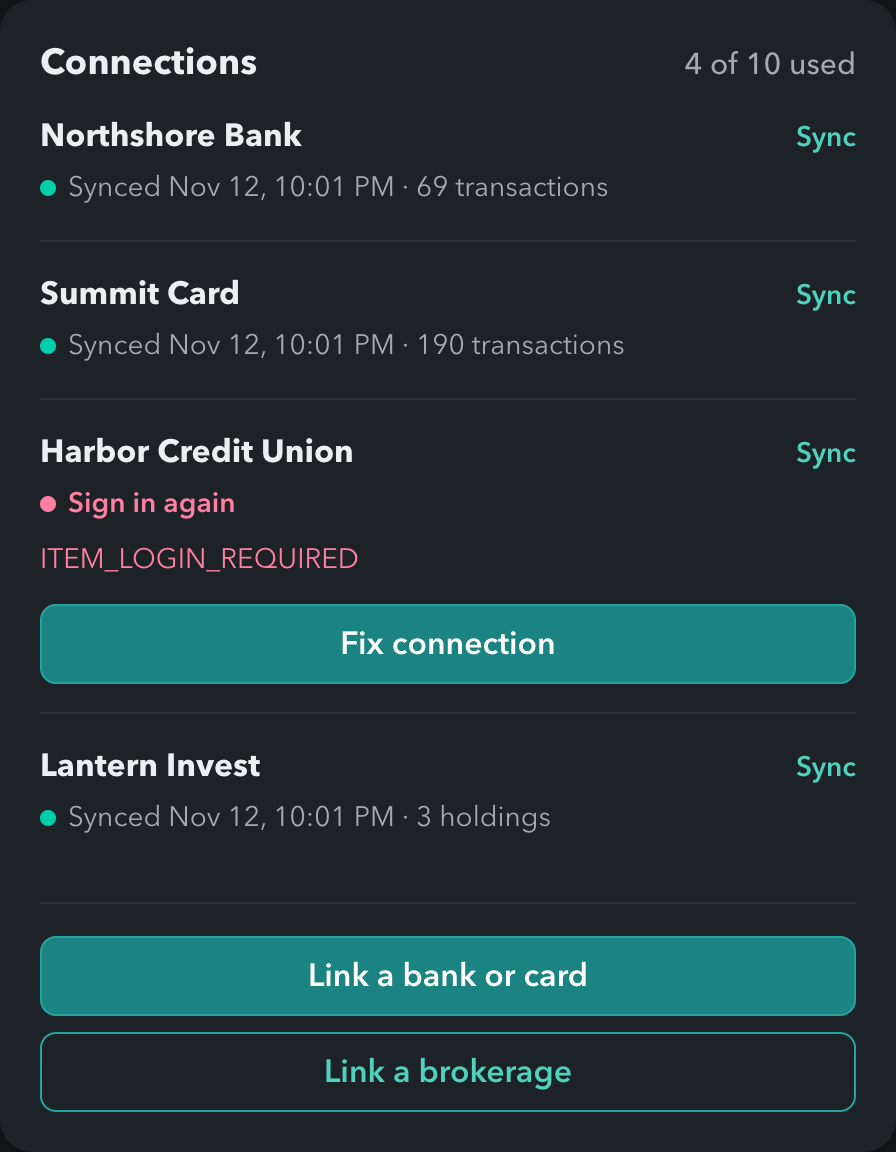
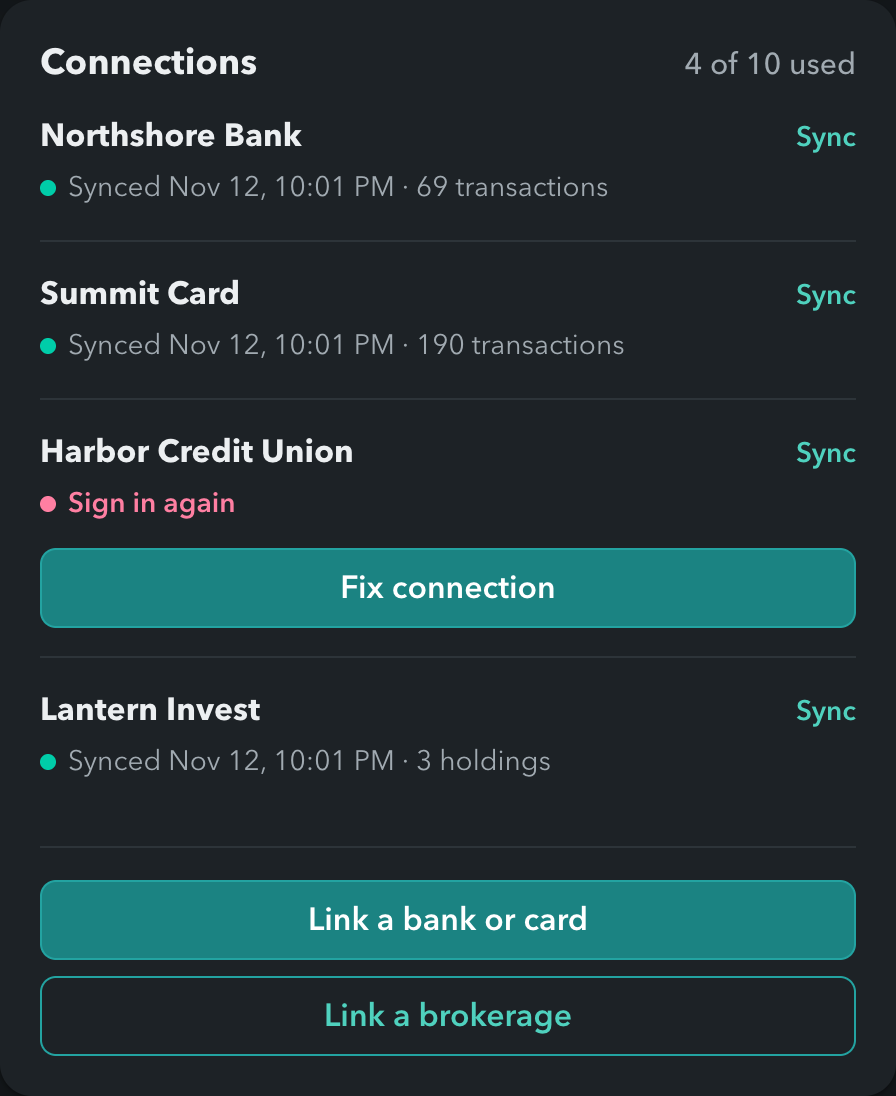
Site: council round 6, one hero button, the picker in the Activity shot, and a fuller What you need
Ruling (Fable, round 6): the hero keeps one button, Read the install guide;
GitHub stays in the nav and footer. The Activity panel shows the category picker
open with the every-transaction box ticked, so its heading is shown. Bills shows
four bills so the columns end level. The Connections shot drops the raw Plaid
error code. What you need sits two by two with the commands and button below.
The hero now sits inside main, so the skip link lands on the h1. Also: dark skip
link contrast, the scroll fade clears at the end of a command, phone one-line
code centers Copy, the light-mode guide screenshots get an edge, the backup
paragraph is one clear paragraph, a shorter guide band, and the screenshot tool
now lives in site/tools with shots.json.

Claude-Session: https://claude.ai/code/session_01BaVsJcBxFdA3k9r5XkVC6W

diff --git a/site/style.css b/site/style.css
@@ -33,7 +33,7 @@ a:hover { text-decoration: underline; text-underline-offset: 3px; }
 :focus-visible { outline: 2px solid var(--deep); outline-offset: 2px; border-radius: 4px; }
 .band :focus-visible { outline-color: #fff; }
 img { max-width: 100%; height: auto; display: block; }
-.skip { position: absolute; left: 16px; top: -48px; z-index: 10; background: #fff; color: var(--deep); padding: 10px 14px; border-radius: 8px; }
+.skip { position: absolute; left: 16px; top: -48px; z-index: 10; background: #fff; color: var(--btn-ink); padding: 10px 14px; border-radius: 8px; }
 .skip:focus { top: 12px; }
 picture { display: block; }
 figure { margin: 0; }
@@ -58,14 +58,12 @@ p, li, dd { text-wrap: pretty; }
 .btn:hover { text-decoration: none; }
 .btn.light { background: #fff; color: var(--btn-ink); }
 .btn.light:hover { background: #E5FAF5; }
-.btn.line { border-color: rgba(255, 255, 255, .7); color: #fff; }
-.btn.line:hover { background: rgba(255, 255, 255, .1); }
 .btn.solid { background: var(--teal); color: #fff; }
 .btn.solid:hover { background: #006B68; }
 
 /* ---------- hero: headline left, what it is and the buttons right ---------- */
 .hero { display: grid; grid-template-columns: 7fr 5fr; gap: 56px; align-items: end; padding-top: 56px; }
-.hero h1 { font-size: 60px; line-height: 1.06; letter-spacing: -.02em; font-weight: 700; }
+.hero h1 { font-size: 60px; line-height: 1.06; letter-spacing: -.02em; font-weight: 700; text-wrap: balance; }
 .hero .lede { font-size: 18px; line-height: 28px; color: #fff; margin: 0; }
 .hero .ctas { display: flex; gap: 12px; margin-top: 24px; flex-wrap: wrap; }
 .hero .fine { font-size: 15px; line-height: 22px; margin: 14px 0 0; color: #fff; text-wrap: balance; }
@@ -87,13 +85,15 @@ p, li, dd { text-wrap: pretty; }
 .tile img { width: 100%; border-radius: 16px; box-shadow: var(--shadow); outline: 1px solid var(--edge); }
 
 /* What you need, with the commands beside it. */
-.setup { display: grid; grid-template-columns: minmax(0, 5fr) minmax(0, 6fr); gap: 32px 72px; align-items: start; }
-.setup h2 { grid-column: 1 / -1; }
-.reqs { margin: 0; }
-.reqs dt { font-weight: 700; padding-top: 18px; border-top: 1px solid var(--line); }
-.reqs dt:first-child { border-top: 0; padding-top: 0; }
-.reqs dd { margin: 4px 0 18px; color: var(--ink2); font-size: 16px; line-height: 25px; }
-.term { margin: 4px 0 24px; background: var(--term); color: #E6F2EF; border-radius: 12px; padding: 20px 24px; overflow-x: auto; font: 14px/24px var(--mono); outline: 1px solid var(--edge); }
+/* What you need: four items two by two, then the commands and the guide button in one row. */
+.setup h2 { margin-bottom: 32px; }
+.reqs { margin: 0; display: grid; grid-template-columns: repeat(2, minmax(0, 1fr)); gap: 28px 72px; }
+.reqs dt { font-weight: 700; }
+.reqs dd { margin: 4px 0 0; color: var(--ink2); font-size: 16px; line-height: 25px; max-width: 46ch; }
+.term-col { display: flex; align-items: center; gap: 40px; margin-top: 48px; }
+.term-col .term { flex: 1; min-width: 0; margin: 0; }
+.term-col .btn { flex: none; }
+.term { background: var(--term); color: #E6F2EF; border-radius: 12px; padding: 14px 20px; overflow-x: auto; font: 14px/23px var(--mono); outline: 1px solid var(--edge); }
 .term .c { color: #8FB3AC; }
 .term .out { color: #7FE3CF; }
 
@@ -103,7 +103,7 @@ footer a { color: var(--ink2); font-weight: 600; }
 footer .flinks { display: flex; gap: 20px; }
 
 /* ---------- docs ---------- */
-.docs-band { padding-top: 40px; padding-bottom: 44px; }
+.docs-band { padding-top: 28px; padding-bottom: 36px; }
 .docs-band h1 { font-size: 40px; letter-spacing: -.02em; }
 .docs { display: grid; grid-template-columns: 220px minmax(0, 1fr); gap: 64px; padding-top: 48px; padding-bottom: 96px; }
 .side { position: sticky; top: 24px; align-self: start; font-size: 15px; }
@@ -130,7 +130,7 @@ article h3 { font-size: 18px; margin: 28px 0 6px; }
 .steps h2 { position: relative; font-size: 28px; margin-bottom: 14px; line-height: 36px; }
 .step { position: absolute; right: calc(100% + 16px); top: 0; color: var(--step); }
 .steps section:last-child { padding-bottom: 16px; }
-.done { margin: 0 0 48px; padding: 0 0 40px; border-bottom: 1px solid var(--line); color: var(--ink); font-weight: 600; text-wrap: balance; }
+.done { margin: 0 0 48px; padding: 0 0 40px; border-bottom: 1px solid var(--line); color: var(--ink); font-weight: 600; }
 .opt { font-size: 14px; font-weight: 600; color: var(--ink2); margin-left: 8px; letter-spacing: 0; }
 
 code { font-family: var(--mono); font-size: .86em; background: var(--code); border-radius: 5px; padding: 2px 6px; -webkit-box-decoration-break: clone; box-decoration-break: clone; }
@@ -145,7 +145,7 @@ pre code { background: none; padding: 0; font-size: inherit; color: inherit; }
 .note { background: var(--warn-tint); border-radius: 12px; padding: 16px 20px; margin: 18px 0; font-size: 16px; line-height: 25px; }
 .note b:first-child { color: var(--warn); }
 .shot { margin: 20px 0; max-width: 448px; }
-.shot img { border-radius: 16px; box-shadow: var(--shadow); outline: 1px solid var(--edge); }
+.shot img { border-radius: 16px; box-shadow: var(--shadow); outline: 1px solid var(--line); }
 /* Term lists use the same bold label as the h3s elsewhere in the guide, with no rules. */
 dl.faq dt { font-size: 18px; font-weight: 700; color: var(--ink); margin-top: 24px; }
 dl.faq dt:first-child { margin-top: 0; }
@@ -158,7 +158,7 @@ dl.faq dd { margin: 6px 0 0; color: var(--body); }
   .hero h1 { font-size: 52px; max-width: 640px; }
   .hero-side { max-width: 600px; }
   .tour { column-gap: 40px; }
-  .setup { grid-template-columns: minmax(0, 1fr); gap: 28px; }
+  .term-col { flex-direction: column; align-items: stretch; gap: 24px; }
 }
 @media (max-width: 760px) {
   body { font-size: 16px; line-height: 26px; }
@@ -175,13 +175,18 @@ dl.faq dd { margin: 6px 0 0; color: var(--body); }
   .section { padding: 64px 0; }
   .section h2 { font-size: 30px; }
   /* One column on phones. Bills comes first, since the hero just showed the Budgets card. */
-  .tour { grid-template-columns: minmax(0, 1fr); gap: 56px; margin-top: 32px; }
+  .tour { grid-template-columns: minmax(0, 1fr); gap: 40px; margin-top: 32px; }
+  .code.scrolls pre { padding-top: 0; }
   .tour .col { display: contents; }
   .tour .tile + .tile { margin-top: 0; }
   .t2 { order: 1; } .t3 { order: 2; } .t1 { order: 3; } .t4 { order: 4; }
   .tile h3 { font-size: 20px; }
-  .tile picture { margin-top: 18px; }
-  .term { font-size: 12px; line-height: 21px; padding: 16px; }
+  .tile picture { margin-top: 12px; }
+  .term { font-size: 12px; line-height: 21px; padding: 12px 16px; }
+  .reqs { grid-template-columns: minmax(0, 1fr); gap: 20px; }
+  .code.one { align-items: center; }
+  .code.one .bar { padding: 0 8px 0 0; }
+  .code.one pre { padding: 13px 16px; }
   .docs-band { padding-top: 24px; padding-bottom: 32px; }
   .docs-band h1 { font-size: 32px; }
   .docs { grid-template-columns: minmax(0, 1fr); gap: 24px; padding-top: 0; padding-bottom: 72px; }
@@ -204,7 +209,7 @@ dl.faq dd { margin: 6px 0 0; color: var(--body); }
   article code.long { white-space: normal; overflow-wrap: anywhere; }
   .code.scrolls { grid-template-columns: minmax(0, 1fr); }
   .code.scrolls .bar { order: 0; display: flex; justify-content: flex-end; padding: 8px 8px 0; }
-  .code.scrolls pre { padding-top: 0; -webkit-mask-image: linear-gradient(to right, #000 calc(100% - 28px), transparent); mask-image: linear-gradient(to right, #000 calc(100% - 28px), transparent); }
+  .code.scrolls:not(.end) pre { -webkit-mask-image: linear-gradient(to right, #000 calc(100% - 28px), transparent); mask-image: linear-gradient(to right, #000 calc(100% - 28px), transparent); }
   .copybtn { height: 36px; }
   .term-col .btn { width: 100%; }
   .shot { max-width: 100%; }

diff --git a/site/index.html b/site/index.html
@@ -26,6 +26,10 @@
       <a class="gh" href="https://github.com/jclind/tally" aria-label="tally on GitHub"><svg width="20" height="20" viewBox="0 0 16 16" fill="currentColor" aria-hidden="true"><path d="M8 0C3.58 0 0 3.58 0 8c0 3.54 2.29 6.53 5.47 7.59.4.07.55-.17.55-.38 0-.19-.01-.82-.01-1.49-2.01.37-2.53-.49-2.69-.94-.09-.23-.48-.94-.82-1.13-.28-.15-.68-.52-.01-.53.63-.01 1.08.58 1.23.82.72 1.21 1.87.87 2.33.66.07-.52.28-.87.51-1.07-1.78-.2-3.64-.89-3.64-3.95 0-.87.31-1.59.82-2.15-.08-.2-.36-1.02.08-2.12 0 0 .67-.21 2.2.82.64-.18 1.32-.27 2-.27.68 0 1.36.09 2 .27 1.53-1.04 2.2-.82 2.2-.82.44 1.1.16 1.92.08 2.12.51.56.82 1.27.82 2.15 0 3.07-1.87 3.75-3.65 3.95.29.25.54.73.54 1.48 0 1.07-.01 1.93-.01 2.2 0 .21.15.46.55.38A8.013 8.013 0 0016 8c0-4.42-3.58-8-8-8z"/></svg><span>GitHub</span></a>
     </nav>
   </header>
+</div>
+
+<main id="main">
+<div class="band">
 
   <section class="wrap hero">
     <h1>A money app that runs on your own computer</h1>
@@ -33,7 +37,6 @@
       <p class="lede">tally shows your spending, budgets, bills, and net worth. It connects to your banks with your own Plaid keys and keeps everything in a SQLite file on your computer. There's no tally account to make.</p>
       <div class="ctas">
         <a class="btn light" href="/docs/">Read the install guide</a>
-        <a class="btn line" href="https://github.com/jclind/tally">View on GitHub</a>
       </div>
       <p class="fine">Free and open source.<br>Mac or&nbsp;Linux, with US or&nbsp;Canadian banks.</p>
     </div>
@@ -53,7 +56,6 @@
   </div>
 </div>
 
-<main id="main">
 <section class="tint section" id="features">
   <div class="wrap">
     <h2>What tally shows</h2>
@@ -65,17 +67,17 @@
         </figure>
         <figure class="tile t4">
           <h3>Fix a broken bank without using a slot.</h3>
-          <picture><source media="(prefers-color-scheme: dark)" srcset="/img/c-conn-dark.png"><img src="/img/c-conn.png" width="896" height="1152" alt="Connections: Harbor Credit Union needs a new sign-in and shows a Fix connection button; the other three banks synced." loading="lazy"></picture>
+          <picture><source media="(prefers-color-scheme: dark)" srcset="/img/c-conn-dark.png"><img src="/img/c-conn.png" width="896" height="1096" alt="Connections: Harbor Credit Union needs a new sign-in and shows a Fix connection button; the other three banks synced." loading="lazy"></picture>
         </figure>
       </div>
       <div class="col">
         <figure class="tile t2">
           <h3>Plaid finds your recurring bills.</h3>
-          <picture><source media="(prefers-color-scheme: dark)" srcset="/img/c-coming-dark.png"><img src="/img/c-coming.png" width="896" height="1054" alt="Coming up: 9 bills at $1,543 a month, with Verizon due Nov 14, Planet Fitness Nov 17, and rent Dec 1." loading="lazy"></picture>
+          <picture><source media="(prefers-color-scheme: dark)" srcset="/img/c-coming-dark.png"><img src="/img/c-coming.png" width="896" height="766" alt="Coming up: 9 bills at $1,543 a month, with Verizon due Nov 14, Planet Fitness Nov 17, Comcast Nov 18, and Geico Nov 22." loading="lazy"></picture>
         </figure>
         <figure class="tile t3">
           <h3>Recategorize one charge, or the whole merchant.</h3>
-          <picture><source media="(prefers-color-scheme: dark)" srcset="/img/c-activity-dark.png"><img src="/img/c-activity.png" width="896" height="936" alt="Activity: transactions grouped by day, each with its category and card, two of them pending." loading="lazy"></picture>
+          <picture><source media="(prefers-color-scheme: dark)" srcset="/img/c-activity-dark.png"><img src="/img/c-activity.png" width="896" height="1220" alt="Activity: the category picker open on a Blue Bottle Coffee charge, with Every Blue Bottle Coffee transaction ticked." loading="lazy"></picture>
         </figure>
       </div>
     </div>
@@ -86,14 +88,14 @@
   <div class="wrap setup">
     <h2>What you need</h2>
     <dl class="reqs">
-      <dt>A Mac or Linux computer</dt>
-      <dd>Not Windows. It doesn't have to stay on, since tally syncs when it starts and when you open it.</dd>
-      <dt>Node 24 or newer, and git</dt>
-      <dd>tally has no npm dependencies.</dd>
-      <dt>A free Plaid account</dt>
-      <dd>The Trial plan covers 10 bank connections for life.</dd>
-      <dt>Tailscale, if you want it on your phone</dt>
-      <dd>Reach tally from your phone without putting it on the internet.</dd>
+      <div><dt>A Mac or Linux computer</dt>
+      <dd>It doesn't have to stay on, since tally syncs when it starts and when you open it.</dd></div>
+      <div><dt>Node 24 or newer, and git</dt>
+      <dd>tally has no npm dependencies.</dd></div>
+      <div><dt>A free Plaid account</dt>
+      <dd>The Trial plan covers 10 bank connections for life.</dd></div>
+      <div><dt>Tailscale, if you want it on your phone</dt>
+      <dd>Reach tally from your phone without putting it on the internet.</dd></div>
     </dl>
     <div class="term-col">
       <pre class="term"><code>git clone https://github.com/jclind/tally.git

diff --git a/site/docs/index.html b/site/docs/index.html
@@ -70,7 +70,7 @@
       <ul>
         <li><b>A Mac or Linux computer.</b> Not Windows.</li>
         <li><b>Node 24 or newer.</b> Check with <code>node -v</code>. Get it from <a href="https://nodejs.org">nodejs.org</a> or <code>brew install node</code>.</li>
-        <li><b>git</b>, to download tally and update it later.</li>
+        <li><b>git</b>.</li>
         <li><b>A US or Canadian bank.</b> Plaid's free plan is only offered there.</li>
       </ul>
     </section>
@@ -108,7 +108,7 @@ chmod 600 ~/.config/tally/plaid.env</code></pre></div>
       <h2><span class="step">3</span>Link an account</h2>
       <p>Open <b>Accounts</b> and choose <b>Link a bank or card</b>, or <b>Link a brokerage</b> for investments.</p>
       <p>In sandbox, pick any bank and sign in with the test login <code>user_good</code> and password <code>pass_good</code>. tally loads test accounts and transactions.</p>
-      <picture class="shot"><source media="(prefers-color-scheme: dark)" srcset="/img/c-conn-one-dark.png"><img src="/img/c-conn-one.png" width="896" height="702" alt="The Connections card on the Accounts page: one sandbox bank linked, 1 of 10 connections used, and the Link a bank or card and Link a brokerage buttons." loading="lazy"></picture>
+      <picture class="shot"><source media="(prefers-color-scheme: dark)" srcset="/img/c-conn-one-dark.png"><img src="/img/c-conn-one.png" width="896" height="590" alt="The Connections card on the Accounts page: one sandbox bank linked, 1 of 10 connections used, and the Link a bank or card and Link a brokerage buttons." loading="lazy"></picture>
     </section>
 
     <section id="real">
@@ -138,8 +138,7 @@ chmod 600 ~/.config/tally/plaid.env</code></pre></div>
     <section id="backup">
       <h2>Backups and updates</h2>
       <h3>What to back up</h3>
-      <p>Copy <code>data/tally-snapshot.db</code> and the <code>~/.config/tally/</code> folder somewhere else, encrypted, on a schedule. The daily job writes the snapshot, and it's safe to copy while tally runs.</p>
-      <p>It also holds the Plaid access tokens. Without it you'd link every bank again.</p>
+      <p>Copy <code>data/tally-snapshot.db</code> and the <code>~/.config/tally/</code> folder somewhere else, encrypted, on a schedule. The daily job writes the snapshot, and it's safe to copy while tally runs. The snapshot also holds your Plaid access tokens; without it you'd link every bank again, and each relink uses a slot.</p>
       <h3>Update tally</h3>
       <p>Pull the new code, then restart tally. On a Mac:</p>
       <div class="code"><pre><code>git pull
@@ -244,6 +243,8 @@ launchctl kickstart -k gui/$(id -u)/local.tally</code></pre></div>
   // A command too wide for the box moves Copy above it and fades at the right edge, so it reads as scrollable.
   const markScroll = () => { for (const box of document.querySelectorAll(".code")) { const pre = box.querySelector("pre"); box.classList.remove("scrolls"); if (pre.scrollWidth > pre.clientWidth + 1) box.classList.add("scrolls"); } };
   addEventListener("load", markScroll); addEventListener("resize", markScroll);
+  // The fade goes once the command is scrolled to its end.
+  for (const pre of document.querySelectorAll(".code pre")) pre.addEventListener("scroll", () => pre.parentElement.classList.toggle("end", pre.scrollLeft + pre.clientWidth >= pre.scrollWidth - 2), { passive: true });
   const jump = document.querySelector(".jump");
   jump.addEventListener("change", () => { location.hash = jump.value; });
   const links = [...document.querySelectorAll(".side nav a")];
